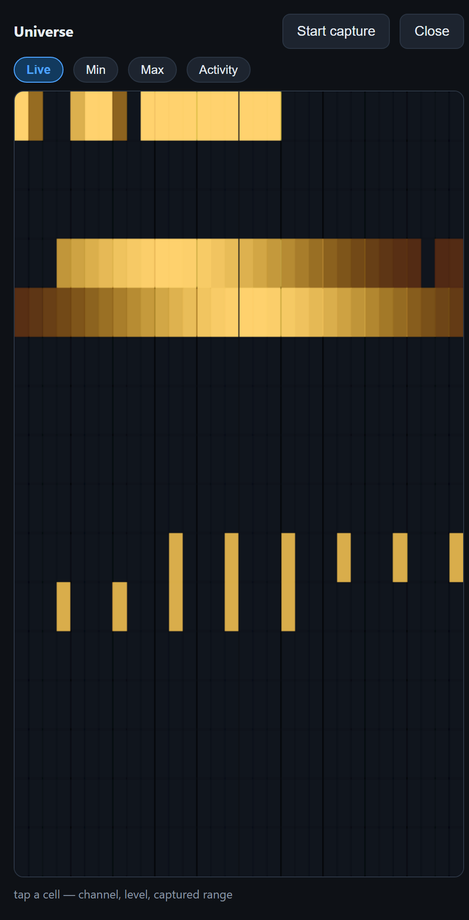
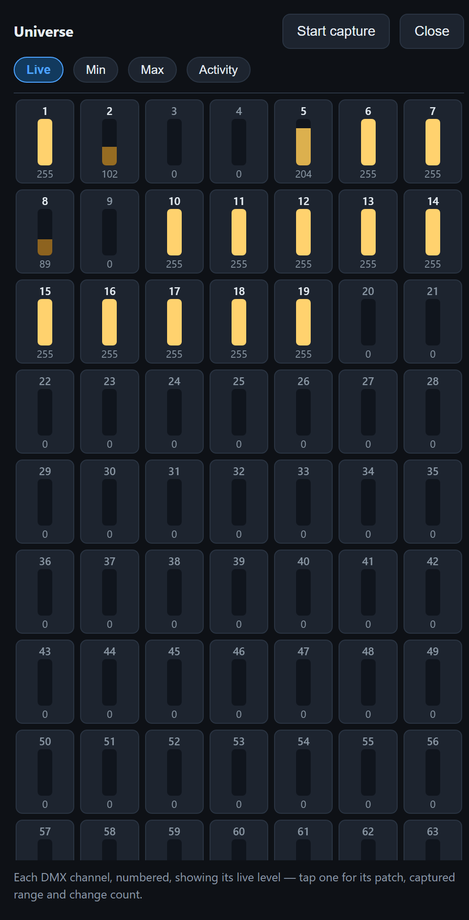
UK English (analyser); update DMX analyser screenshot to the numbered per-channel view; reword feature to match

diff --git a/index.html b/index.html
@@ -192,7 +192,7 @@
 <section id="features" style="background:var(--bg2)"><div class="wrap">
   <h2>Built for the set</h2>
   <p class="sub">The things that matter when the camera's rolling: clean light, control you can trust, and a rig that tells you the truth about its state.</p>
-  <div class="feats"><div class="feat"><div class="fi">🎥</div><h3>Flicker-free on camera</h3><p>High-frequency PWM with 16-bit, dithered dimming — no banding on camera, and fades that stay smooth with no visible stepping.</p></div><div class="feat"><div class="fi">🛡</div><h3>Protection in microseconds</h3><p>Per-port over-current is caught in microseconds — faster than a fuse or a PSU surge — with short and thermal foldback that rides through a fault instead of just tripping.</p></div><div class="feat"><div class="fi">🎛</div><h3>DMX, CRMX &amp; RDM</h3><p>Wired DMX or CRMX wireless (LumenRadio), with full RDM — discovery, remote addressing and sensor feedback from the desk.</p></div><div class="feat"><div class="fi">🎬</div><h3>21 film-ready effects</h3><p>Fire, candle, lightning, TV glow, passing headlights, faulty fluorescent, paparazzi and more — with rig-wide tempo and spread.</p></div><div class="feat"><div class="fi">🎨</div><h3>Per-port colour &amp; curves</h3><p>RGB or tuneable white on every output, with a Hue/Sat/Kelvin picker, dimmer curves and per-channel trim.</p></div><div class="feat"><div class="fi">📈</div><h3>Live telemetry</h3><p>Per-port current — calibrated to within 1% of a bench meter — plus temperature, faults and source, so the rig tells you the truth about its state.</p></div><div class="feat"><div class="fi">🔬</div><h3>DMX analysis &amp; universe health</h3><p>A full analyzer built in — live signal stats (fps, slots, errors), a channel-by-channel universe heatmap with min/max capture, a flicker finder, and an RDM tester for every fixture downstream.</p></div><div class="feat"><div class="fi"><svg viewBox="0 0 24 24" width="27" height="27" fill="none" stroke="#5fd7ff" stroke-width="2" stroke-linecap="round" stroke-linejoin="round" style="vertical-align:top" aria-label="Bluetooth"><path d="m7 7 10 10-5 5V2l5 5L7 17"/></svg></div><h3>Runs from your phone</h3><p>Set up and run everything over Bluetooth. The control path never touches a network: no cloud, no account, no tracking.</p></div><div class="feat"><div class="fi">⬆</div><h3>Wireless updates</h3><p>Firmware straight over Bluetooth, with automatic rollback if a build ever misbehaves.</p></div></div>
+  <div class="feats"><div class="feat"><div class="fi">🎥</div><h3>Flicker-free on camera</h3><p>High-frequency PWM with 16-bit, dithered dimming — no banding on camera, and fades that stay smooth with no visible stepping.</p></div><div class="feat"><div class="fi">🛡</div><h3>Protection in microseconds</h3><p>Per-port over-current is caught in microseconds — faster than a fuse or a PSU surge — with short and thermal foldback that rides through a fault instead of just tripping.</p></div><div class="feat"><div class="fi">🎛</div><h3>DMX, CRMX &amp; RDM</h3><p>Wired DMX or CRMX wireless (LumenRadio), with full RDM — discovery, remote addressing and sensor feedback from the desk.</p></div><div class="feat"><div class="fi">🎬</div><h3>21 film-ready effects</h3><p>Fire, candle, lightning, TV glow, passing headlights, faulty fluorescent, paparazzi and more — with rig-wide tempo and spread.</p></div><div class="feat"><div class="fi">🎨</div><h3>Per-port colour &amp; curves</h3><p>RGB or tuneable white on every output, with a Hue/Sat/Kelvin picker, dimmer curves and per-channel trim.</p></div><div class="feat"><div class="fi">📈</div><h3>Live telemetry</h3><p>Per-port current — calibrated to within 1% of a bench meter — plus temperature, faults and source, so the rig tells you the truth about its state.</p></div><div class="feat"><div class="fi">🔬</div><h3>DMX analysis &amp; universe health</h3><p>A full analyser built in — live signal stats (fps, slots, errors), a numbered channel-by-channel universe view with min/max capture, a flicker finder, and an RDM tester for every fixture downstream.</p></div><div class="feat"><div class="fi"><svg viewBox="0 0 24 24" width="27" height="27" fill="none" stroke="#5fd7ff" stroke-width="2" stroke-linecap="round" stroke-linejoin="round" style="vertical-align:top" aria-label="Bluetooth"><path d="m7 7 10 10-5 5V2l5 5L7 17"/></svg></div><h3>Runs from your phone</h3><p>Set up and run everything over Bluetooth. The control path never touches a network: no cloud, no account, no tracking.</p></div><div class="feat"><div class="fi">⬆</div><h3>Wireless updates</h3><p>Firmware straight over Bluetooth, with automatic rollback if a build ever misbehaves.</p></div></div>
 </div></section>
 
 <section id="specs"><div class="wrap">
@@ -217,7 +217,7 @@
       <a class="btn" href="https://jonathanbillitt.github.io/jmb-zone-app/" target="_blank" rel="noopener">Open the app</a>
     </div>
   </div>
-</div><div class="shots"><img loading="lazy" src="app-control.png?v3" alt="Per-port control"><img loading="lazy" src="app-colour.png?v3" alt="Console-style colour picker"><img loading="lazy" src="app-ports.png?v3" alt="Live telemetry"><img loading="lazy" src="app-diag.png?v3" alt="DMX universe analyzer"></div></div></section>
+</div><div class="shots"><img loading="lazy" src="app-control.png?v4" alt="Per-port control"><img loading="lazy" src="app-colour.png?v4" alt="Console-style colour picker"><img loading="lazy" src="app-ports.png?v4" alt="Live telemetry"><img loading="lazy" src="app-diag.png?v4" alt="DMX universe analyser"></div></div></section>
 
 <section id="docs" style="background:var(--bg2)"><div class="wrap">
   <h2>Documentation</h2>
